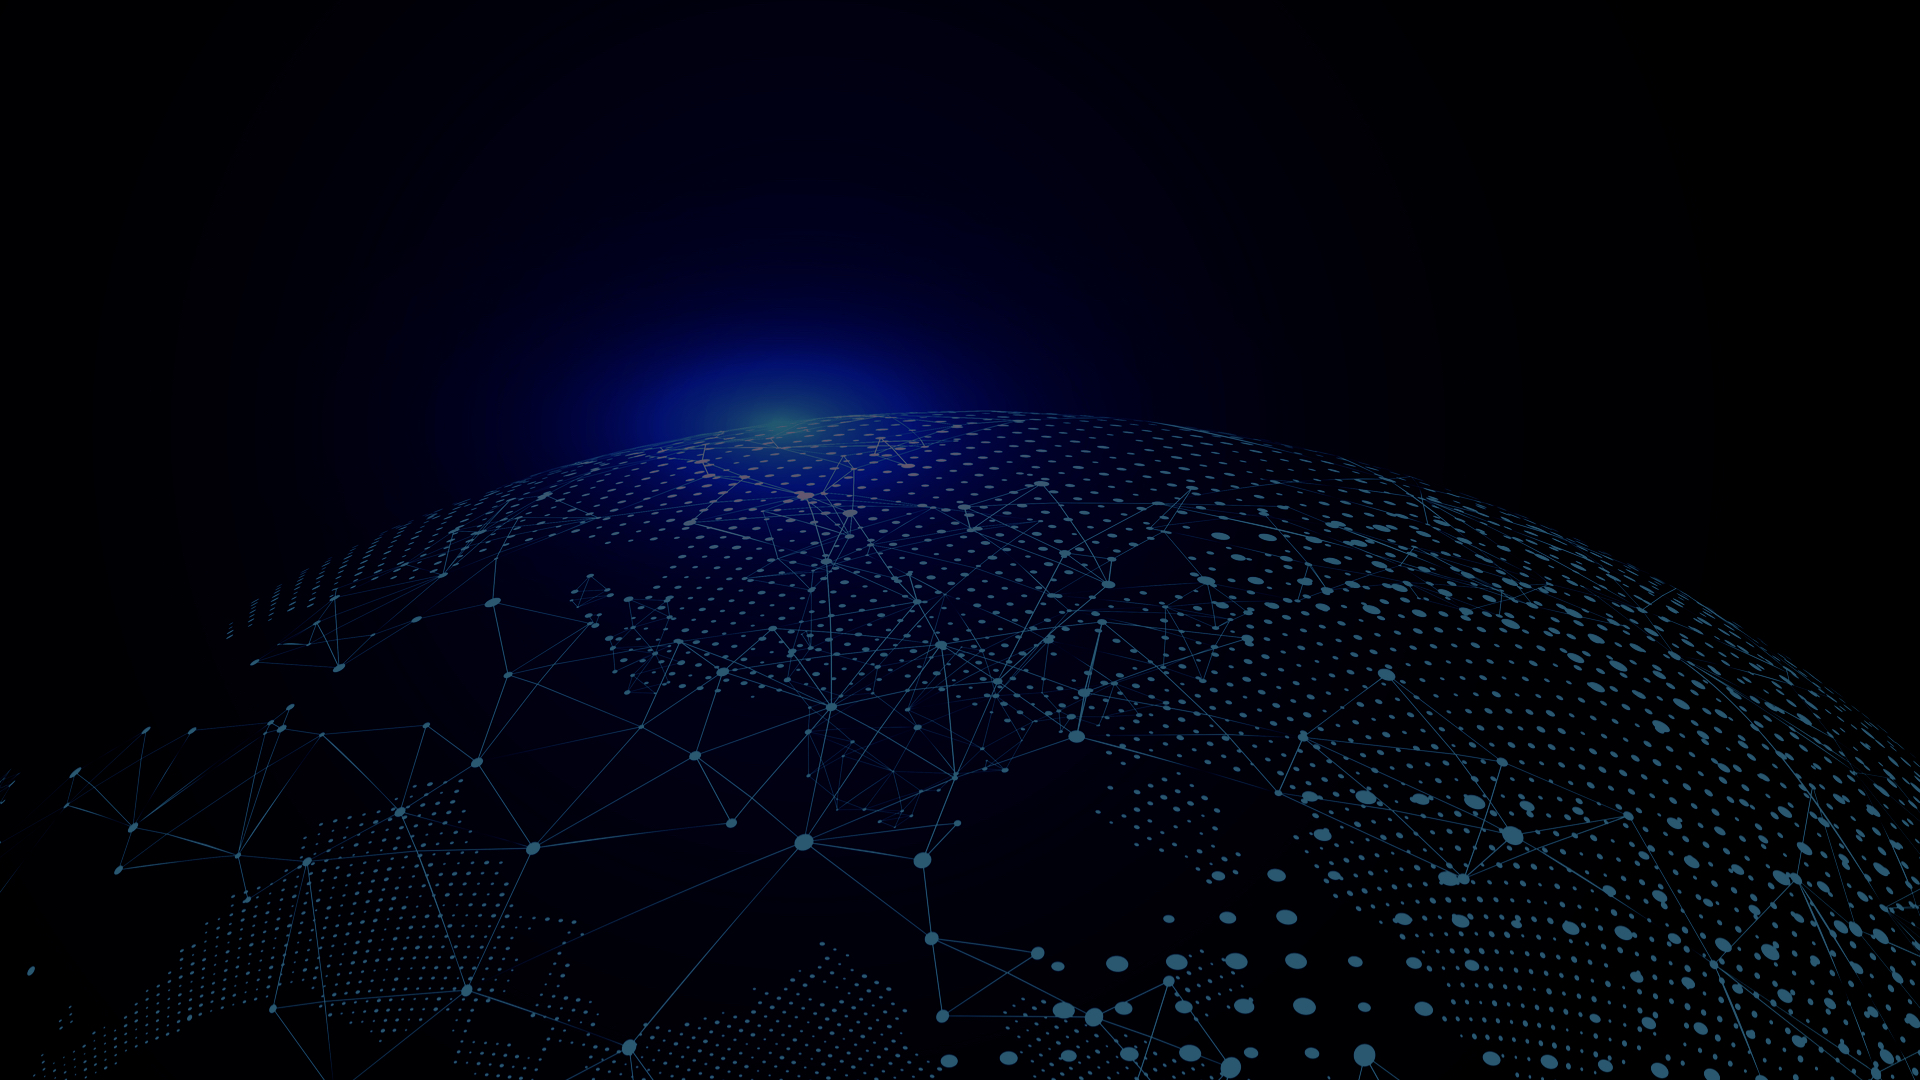
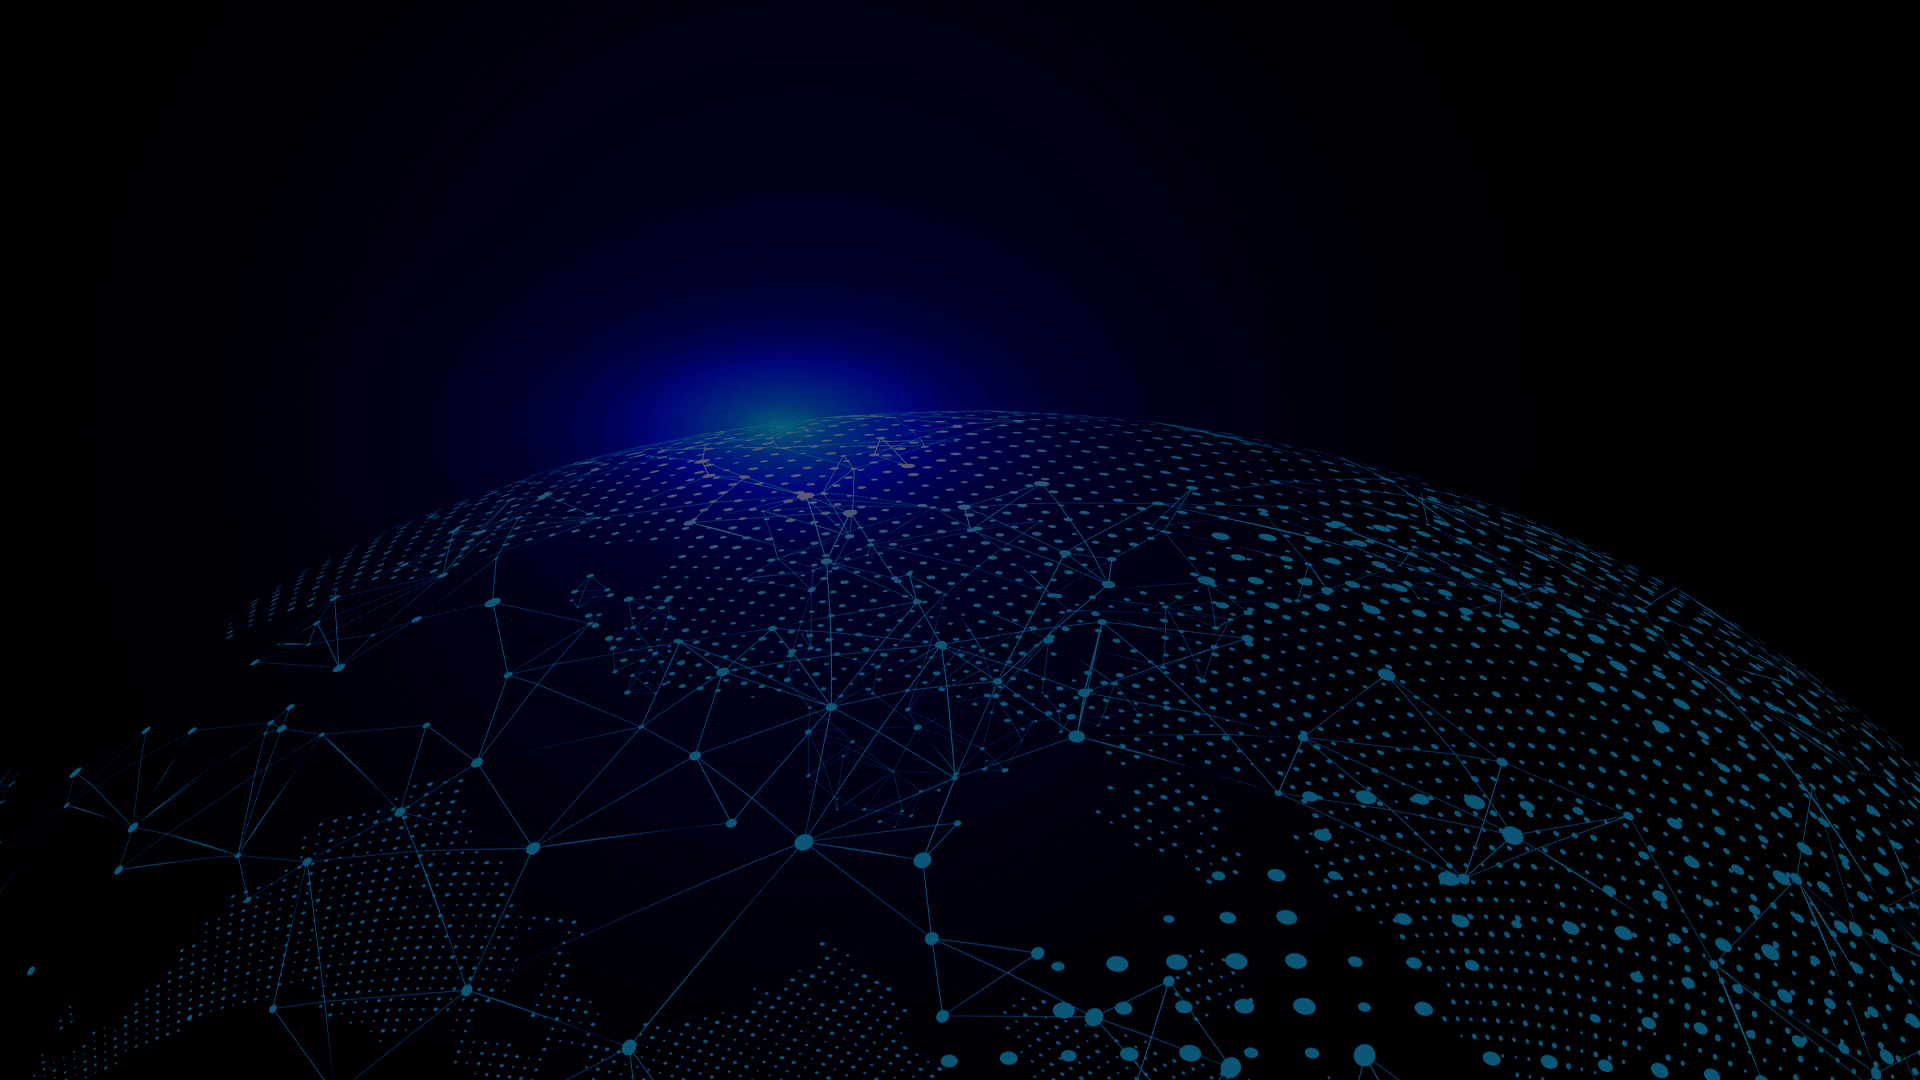
Add docs to home

diff --git a/index.html b/index.html
@@ -66,8 +66,10 @@ layout: default
             <div class="container">
                 <div class="col-lg-8 col-lg-offset-2">
                     <h2>Documentation</h2>
-                    <p>We will be posting Cardano tutorials and documentation here in the future.</p>
-                    <!-- <a href="docs" class="btn btn-default btn-lg">Visit documentation page</a> -->
+                    <h3>Cardano Foundational Concepts</h3>
+                    {% assign series-name = "Cardano Foundational Concepts" %}
+                    {% assign series-description = "Fundamental Cardano concepts that everyone should know." %}
+                    {% include series-box.html %}
                 </div>
             </div>
         </div>

diff --git a/_sass/slate.scss b/_sass/slate.scss
@@ -277,7 +277,7 @@ a:focus {
     width: 100%;
     padding: 100px 0;
     color: #fff;
-    background: url(img/docs-bg-3.jpg) no-repeat center center scroll;
+    background: url(img/docs-bg-4.jpg) no-repeat center center scroll;
     background-color: $color-primary-dark;
     -webkit-background-size: cover;
     -moz-background-size: cover;

diff --git a/_sass/variables.scss b/_sass/variables.scss
@@ -1,5 +1,5 @@
 $color-primary-dark: #1b1b1b;
-$color-links: #388bc7;
+$color-links: #26a4ff;
 $color-links-hover: #6cb1e2;
 
 // #e22f70 #ff2a2a
